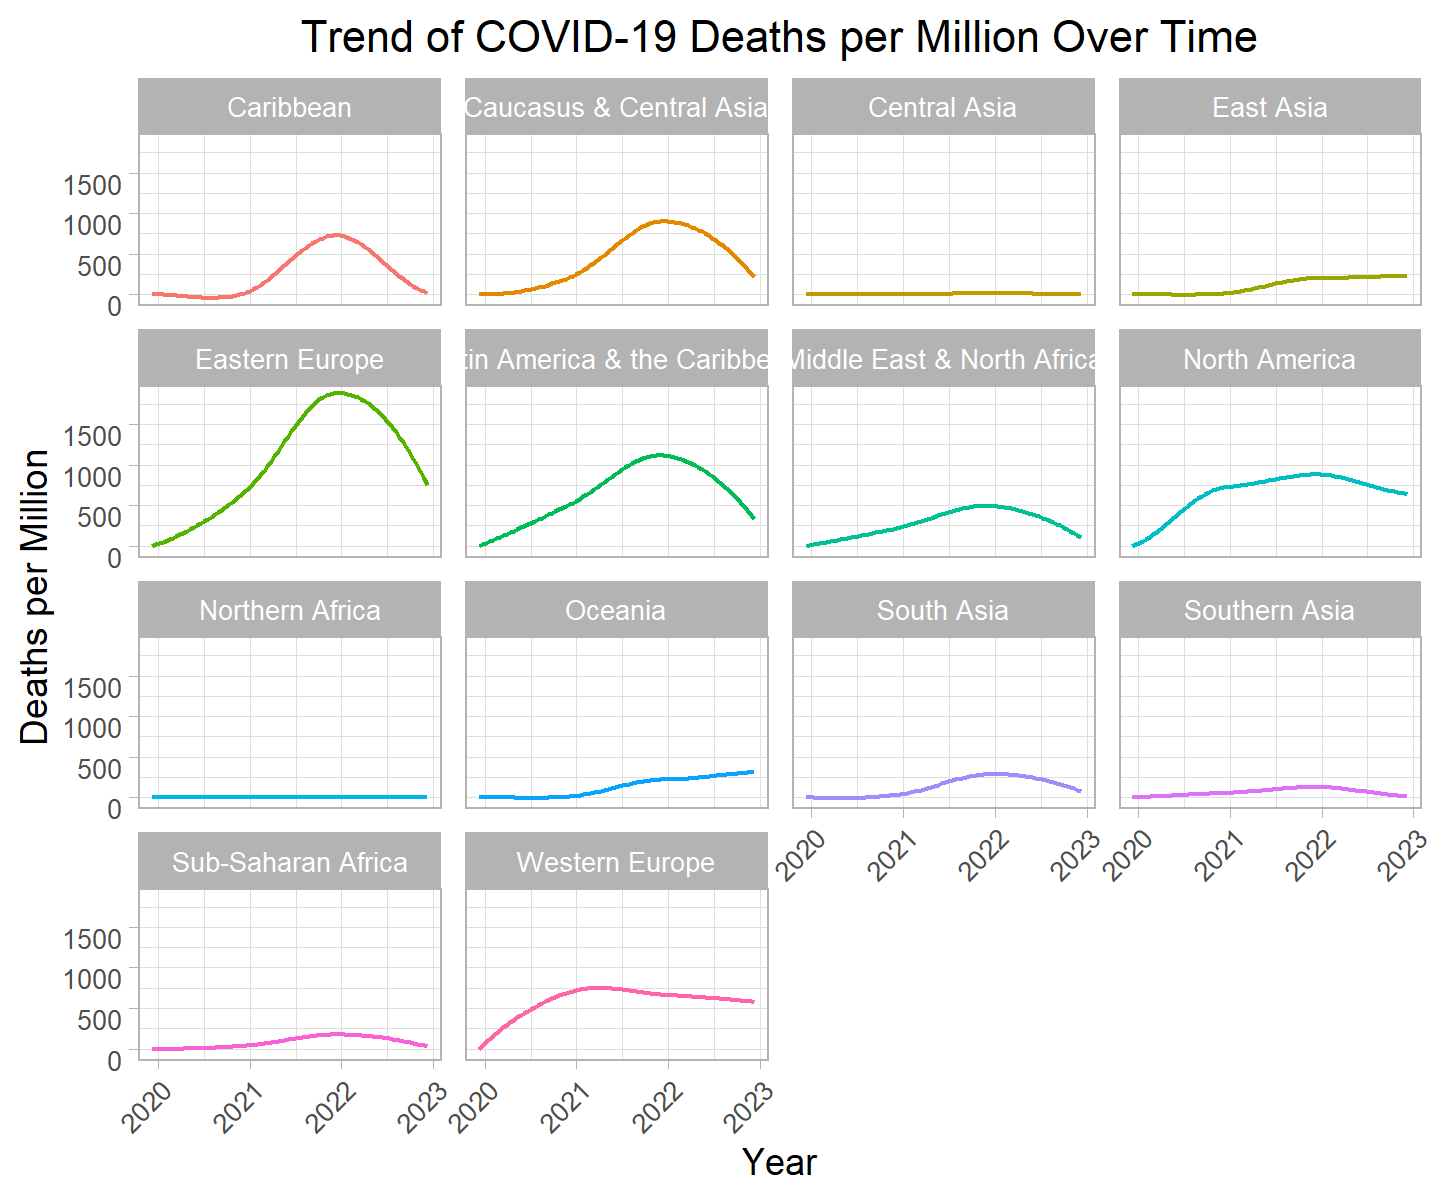
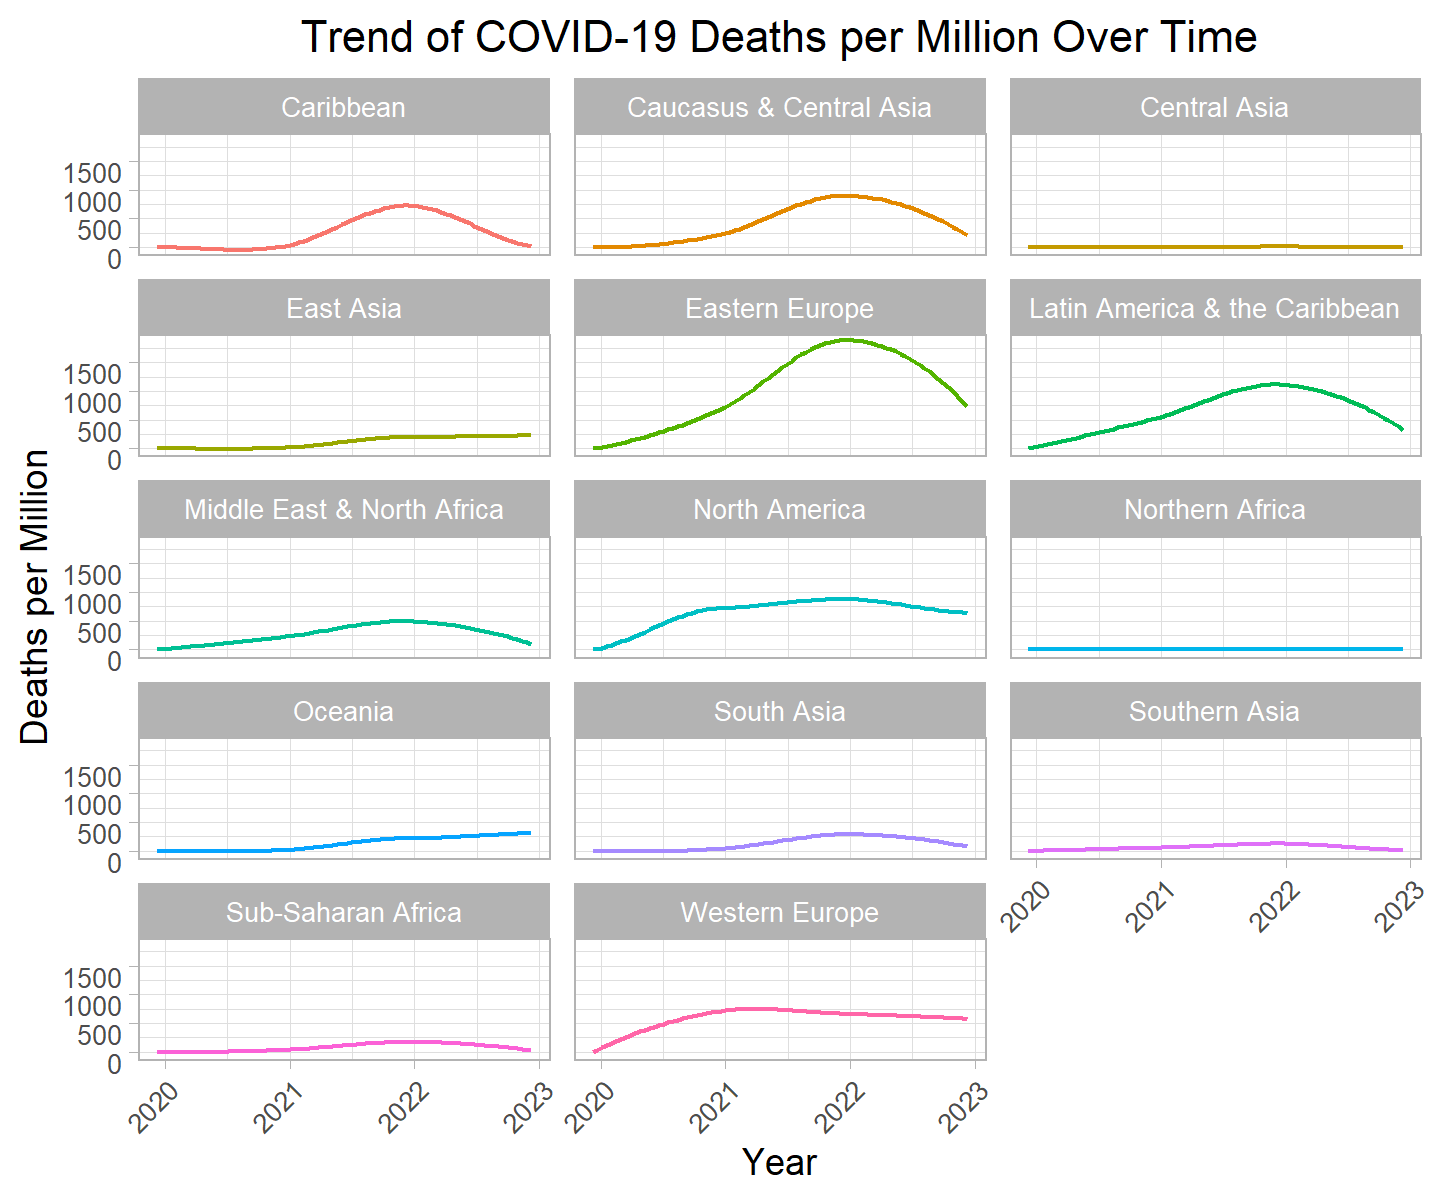
f

diff --git a/report/eda.html b/report/eda.html
@@ -536,7 +536,7 @@ pre > code.sourceCode > span > a:first-child::before { text-decoration: underlin
 </div>
 </div>
 <p>Meaning of the stars: *** : p_value &lt; 0.001; ** : p_value &lt; 0.01; *: p_value &lt;0.05; no star if p_value is higher.</p>
-<p>The different variables used to materialize the impact of climate disasters do not seem to have important influence on the overall score, but we will further explore for the different SDGs, since we believe that such disasters have a specific influence on some SDGs.</p>
+<p>The different variables used to materialize the impact of climate disasters do not seem to have important influence on the overall score. Indeed, the overallscore and total_affected have a correlation coefficient that suggests a very weak negative linear relationship between this variables and which is not statistically significant (p ≥ 0.05), and the overallscore and total_deaths have a correlation that also indicates a weak negative linear relationship that is statistically significant at p &lt; 0.05. But we will further explore for the different SDGs, since we believe that such disasters have a specific influence on some SDGs.</p>
 <div class="cell" data-layout-align="center" data-hash="eda_cache/html/unnamed-chunk-13_1b2d439539af9a38afe67a90f226f445">
 <div class="sourceCode cell-code" id="cb12"><pre class="sourceCode r code-with-copy"><code class="sourceCode r"><span id="cb12-1"><a href="#cb12-1" aria-hidden="true" tabindex="-1"></a>lower.panel <span class="ot">&lt;-</span> <span class="cf">function</span>(x, y, ...){</span>
 <span id="cb12-2"><a href="#cb12-2" aria-hidden="true" tabindex="-1"></a>  <span class="fu">points</span>(x, y, <span class="at">pch =</span> <span class="dv">20</span>, <span class="at">col =</span> <span class="st">"darkgreen"</span>, <span class="at">cex =</span> <span class="fl">0.2</span>)</span>
@@ -573,7 +573,8 @@ pre > code.sourceCode > span > a:first-child::before { text-decoration: underlin
 </div>
 </div>
 <p>Meaning of the stars: *** : p_value &lt; 0.001; ** : p_value &lt; 0.01; *: p_value &lt;0.05; no star if p_value is higher.</p>
-<p>The different variables used to materialize the impact of COVID19 do not seem to have important influence on the overall score, but we will further explore for the different SDGs, since we believe that COVID19 had a specific influence on some SDGs, for instance “good health and well-being” or “decent work and economic growth”.</p>
+<p>The different variables used to materialize the impact of COVID19 do not seem to have important influence on the overall score, we can see that Overallscore and cases_per_million/deaths_per_million/stringency have a correlation coefficient indicating a weak positive linear relationship that is highly statistically significant at p &lt; 0.001. But we will further explore for the different SDGs, since we believe that COVID19 had a specific influence on some SDGs, for instance “good health and well-being” or “decent work and economic growth”.</p>
+<p>Concerning the correlation effect between the COVID19 variables, we could have no surprises, Cases_per_million and deaths_per_million have a moderate to strong positive correlation suggesting a stronger relationship where an increase in the number of COVID-19 cases per million is associated with a substantial increase in the number of deaths per million. This indicates a significant correlation between case prevalence and mortality rate. Cases_per_million and stringency have a moderate positive correlation indicates that higher levels of cases per million are associated with slightly higher severity of health measures. This could mean that in regions where cases are more numerous, stricter sanitary measures can be put in place to control the spread of the virus. Finally, Deaths_per_million and stringency have a strong positive correlation indicating a robust relationship where higher mortality rates are associated with higher severity of sanitary measures. This suggest that in areas where deaths are higher, stricter sanitary measures are applied in an attempt to reduce the spread of the virus and mortality.</p>
 <div class="cell" data-layout-align="center" data-hash="eda_cache/html/unnamed-chunk-14_73173f2ace81ead4e12478e68ecbc066">
 <div class="sourceCode cell-code" id="cb13"><pre class="sourceCode r code-with-copy"><code class="sourceCode r"><span id="cb13-1"><a href="#cb13-1" aria-hidden="true" tabindex="-1"></a>lower.panel <span class="ot">&lt;-</span> <span class="cf">function</span>(x, y, ...){</span>
 <span id="cb13-2"><a href="#cb13-2" aria-hidden="true" tabindex="-1"></a>  <span class="fu">points</span>(x, y, <span class="at">pch =</span> <span class="dv">20</span>, <span class="at">col =</span> <span class="st">"darkgreen"</span>, <span class="at">cex =</span> <span class="fl">0.5</span>)</span>
@@ -610,7 +611,7 @@ pre > code.sourceCode > span > a:first-child::before { text-decoration: underlin
 </div>
 </div>
 <p>Meaning of the stars: *** : p_value &lt; 0.001; ** : p_value &lt; 0.01; *: p_value &lt;0.05; no star if p_value is higher.</p>
-<p>The different variables used to materialize the impact of conflicts do not seem to have important influence on the overall score, but we will further explore for the different SDGs, since we believe that conflicts have a specific influence on some SDGs.</p>
+<p>Negative values (ranging from -0.17 to -0.28) with three stars (***) indicate a strong and statistically significant negative correlation between the overall index (Overallscore) and the various conflict-related variables (Ongoing, sum_deaths, pop_affected, area_affected, maxintensity). A strong negative correlation means that an increase in the Overallscore is associated with a decrease in the values of the other variables. But we have to take into account that correlation does not necessarily imply direct causation. Further analysis may be required to understand in depth the nature of the relationships between these variables.</p>
 <p>To explore our data on events such as disasters, covid-19 and conflicts we have to first see which countries are the most touched by these. To do so, we made time-series analysis on this three events each time depending on different variables.</p>
 <div class="cell" data-layout-align="center" data-hash="eda_cache/html/unnamed-chunk-15_edf8e38e20014d79e95924703219522d">
 <div class="sourceCode cell-code" id="cb14"><pre class="sourceCode r code-with-copy"><code class="sourceCode r"><span id="cb14-1"><a href="#cb14-1" aria-hidden="true" tabindex="-1"></a><span class="co"># Converted 'year' column to date format</span></span>
@@ -645,12 +646,12 @@ pre > code.sourceCode > span > a:first-child::before { text-decoration: underlin
 </div>
 </div>
 <p>These is our time-analysis concerning the COVID-19 deaths per million per region between end 2018 and 2022</p>
-<div class="cell" data-layout-align="center" data-hash="eda_cache/html/unnamed-chunk-17_01117268642008bee6b950ee3f803f41">
+<div class="cell" data-layout-align="center" data-hash="eda_cache/html/unnamed-chunk-17_8d6d11c1195f325e113b0d524963efcd">
 <div class="sourceCode cell-code" id="cb16"><pre class="sourceCode r code-with-copy"><code class="sourceCode r"><span id="cb16-1"><a href="#cb16-1" aria-hidden="true" tabindex="-1"></a></span>
 <span id="cb16-2"><a href="#cb16-2" aria-hidden="true" tabindex="-1"></a><span class="fu">ggplot</span>(<span class="at">data =</span> covid_filtered, <span class="fu">aes</span>(<span class="at">x =</span> year, <span class="at">y =</span> deaths_per_million, <span class="at">group =</span> region, <span class="at">color =</span> region)) <span class="sc">+</span></span>
 <span id="cb16-3"><a href="#cb16-3" aria-hidden="true" tabindex="-1"></a>  <span class="fu">geom_smooth</span>(<span class="at">method =</span> <span class="st">"loess"</span>, <span class="at">se =</span> <span class="cn">FALSE</span>, <span class="at">span =</span> <span class="fl">0.8</span>, <span class="at">size =</span> <span class="fl">0.6</span>) <span class="sc">+</span> </span>
 <span id="cb16-4"><a href="#cb16-4" aria-hidden="true" tabindex="-1"></a>  <span class="fu">labs</span>(<span class="at">x =</span> <span class="st">"Year"</span>, <span class="at">y =</span> <span class="st">"Deaths per Million"</span>) <span class="sc">+</span></span>
-<span id="cb16-5"><a href="#cb16-5" aria-hidden="true" tabindex="-1"></a>  <span class="fu">facet_wrap</span>(<span class="sc">~</span> region, <span class="at">nrow =</span> <span class="dv">4</span>, <span class="at">strip.position =</span> <span class="st">"top"</span>) <span class="sc">+</span></span>
+<span id="cb16-5"><a href="#cb16-5" aria-hidden="true" tabindex="-1"></a>  <span class="fu">facet_wrap</span>(<span class="sc">~</span> region, <span class="at">nrow =</span> <span class="dv">5</span>, <span class="at">strip.position =</span> <span class="st">"top"</span>) <span class="sc">+</span></span>
 <span id="cb16-6"><a href="#cb16-6" aria-hidden="true" tabindex="-1"></a>  <span class="fu">theme</span>(<span class="at">axis.text.x =</span> <span class="fu">element_text</span>(<span class="at">angle =</span> <span class="dv">45</span>, <span class="at">size =</span> <span class="dv">8</span>, <span class="at">hjust =</span> <span class="dv">1</span>),</span>
 <span id="cb16-7"><a href="#cb16-7" aria-hidden="true" tabindex="-1"></a>        <span class="at">axis.text.y =</span> <span class="fu">element_text</span>(<span class="at">vjust =</span> <span class="dv">1</span>, <span class="at">size =</span> <span class="dv">8</span>, <span class="at">hjust =</span> <span class="dv">1</span>),</span>
 <span id="cb16-8"><a href="#cb16-8" aria-hidden="true" tabindex="-1"></a>        <span class="at">strip.text =</span> <span class="fu">element_text</span>(<span class="at">size =</span> <span class="dv">8</span>),</span>
@@ -668,11 +669,11 @@ pre > code.sourceCode > span > a:first-child::before { text-decoration: underlin
 </div>
 </div>
 <p>These is our time-analysis concerning the COVID-19 stringency per region between end 2018 and 2022</p>
-<div class="cell" data-layout-align="center" data-hash="eda_cache/html/unnamed-chunk-18_0fc820a138367e36aade4dd243999229">
+<div class="cell" data-layout-align="center" data-hash="eda_cache/html/unnamed-chunk-18_55fdbbfa8025bfe50a3d3795263ee1c8">
 <div class="sourceCode cell-code" id="cb17"><pre class="sourceCode r code-with-copy"><code class="sourceCode r"><span id="cb17-1"><a href="#cb17-1" aria-hidden="true" tabindex="-1"></a><span class="fu">ggplot</span>(<span class="at">data =</span> covid_filtered, <span class="fu">aes</span>(<span class="at">x =</span> year, <span class="at">y =</span> stringency, <span class="at">group =</span> region, <span class="at">color =</span> region)) <span class="sc">+</span></span>
 <span id="cb17-2"><a href="#cb17-2" aria-hidden="true" tabindex="-1"></a>  <span class="fu">geom_smooth</span>(<span class="at">method =</span> <span class="st">"loess"</span>,  <span class="at">se =</span> <span class="cn">FALSE</span>, <span class="at">span =</span> <span class="fl">0.7</span>, <span class="at">size =</span> <span class="fl">0.6</span>) <span class="sc">+</span> </span>
 <span id="cb17-3"><a href="#cb17-3" aria-hidden="true" tabindex="-1"></a>  <span class="fu">labs</span>(<span class="at">x =</span> <span class="st">"Year"</span>, <span class="at">y =</span> <span class="st">"Stringency"</span>) <span class="sc">+</span></span>
-<span id="cb17-4"><a href="#cb17-4" aria-hidden="true" tabindex="-1"></a>  <span class="fu">facet_wrap</span>(<span class="sc">~</span> region, <span class="at">nrow =</span> <span class="dv">4</span>) <span class="sc">+</span></span>
+<span id="cb17-4"><a href="#cb17-4" aria-hidden="true" tabindex="-1"></a>  <span class="fu">facet_wrap</span>(<span class="sc">~</span> region, <span class="at">nrow =</span> <span class="dv">5</span>) <span class="sc">+</span></span>
 <span id="cb17-5"><a href="#cb17-5" aria-hidden="true" tabindex="-1"></a>  <span class="fu">theme</span>(<span class="at">axis.text.x =</span> <span class="fu">element_text</span>(<span class="at">angle =</span> <span class="dv">45</span>, <span class="at">size =</span> <span class="dv">8</span>, <span class="at">hjust =</span> <span class="dv">1</span>),</span>
 <span id="cb17-6"><a href="#cb17-6" aria-hidden="true" tabindex="-1"></a>        <span class="at">axis.text.y =</span> <span class="fu">element_text</span>(<span class="at">vjust =</span> <span class="dv">1</span>, <span class="at">size =</span> <span class="dv">8</span>, <span class="at">hjust =</span> <span class="dv">1</span>),</span>
 <span id="cb17-7"><a href="#cb17-7" aria-hidden="true" tabindex="-1"></a>        <span class="at">strip.text =</span> <span class="fu">element_text</span>(<span class="at">size =</span> <span class="dv">8</span>),</span>
@@ -690,12 +691,12 @@ pre > code.sourceCode > span > a:first-child::before { text-decoration: underlin
 </div>
 </div>
 <p>These is our time-analysis concerning climatic disasters with total affected per region</p>
-<div class="cell" data-layout-align="center" data-hash="eda_cache/html/unnamed-chunk-19_0682c089e67664f714b8231898ebb553">
+<div class="cell" data-layout-align="center" data-hash="eda_cache/html/unnamed-chunk-19_20e47aa337aa8d84ff4ebfd6ebd8a589">
 <div class="sourceCode cell-code" id="cb18"><pre class="sourceCode r code-with-copy"><code class="sourceCode r"><span id="cb18-1"><a href="#cb18-1" aria-hidden="true" tabindex="-1"></a>Q3<span class="fl">.1</span>[<span class="fu">is.na</span>(Q3<span class="fl">.1</span>)] <span class="ot">&lt;-</span> <span class="dv">0</span></span>
 <span id="cb18-2"><a href="#cb18-2" aria-hidden="true" tabindex="-1"></a><span class="fu">ggplot</span>(<span class="at">data =</span> Q3<span class="fl">.1</span>, <span class="fu">aes</span>(<span class="at">x =</span> year, <span class="at">y =</span> total_affected, <span class="at">group =</span> region, <span class="at">color =</span> region)) <span class="sc">+</span></span>
 <span id="cb18-3"><a href="#cb18-3" aria-hidden="true" tabindex="-1"></a>  <span class="fu">geom_smooth</span>(<span class="at">method =</span> <span class="st">"loess"</span>,  <span class="at">se =</span> <span class="cn">FALSE</span>, <span class="at">span =</span> <span class="fl">0.7</span>, <span class="at">size =</span> <span class="fl">0.5</span>) <span class="sc">+</span> </span>
 <span id="cb18-4"><a href="#cb18-4" aria-hidden="true" tabindex="-1"></a>  <span class="fu">labs</span>(<span class="at">x =</span> <span class="st">"Year"</span>, <span class="at">y =</span> <span class="st">"Total Affected"</span>) <span class="sc">+</span></span>
-<span id="cb18-5"><a href="#cb18-5" aria-hidden="true" tabindex="-1"></a>  <span class="fu">facet_wrap</span>(<span class="sc">~</span> region, <span class="at">nrow =</span> <span class="dv">4</span>) <span class="sc">+</span></span>
+<span id="cb18-5"><a href="#cb18-5" aria-hidden="true" tabindex="-1"></a>  <span class="fu">facet_wrap</span>(<span class="sc">~</span> region, <span class="at">nrow =</span> <span class="dv">5</span>) <span class="sc">+</span></span>
 <span id="cb18-6"><a href="#cb18-6" aria-hidden="true" tabindex="-1"></a>  <span class="fu">scale_y_continuous</span>(<span class="at">labels =</span> <span class="cf">function</span>(x) <span class="fu">format</span>(x, <span class="at">scientific =</span> <span class="cn">FALSE</span>)) <span class="sc">+</span></span>
 <span id="cb18-7"><a href="#cb18-7" aria-hidden="true" tabindex="-1"></a>  <span class="fu">theme</span>(<span class="at">axis.text.x =</span> <span class="fu">element_text</span>(<span class="at">angle =</span> <span class="dv">45</span>, <span class="at">size =</span> <span class="dv">8</span>, <span class="at">hjust =</span> <span class="dv">1</span>),</span>
 <span id="cb18-8"><a href="#cb18-8" aria-hidden="true" tabindex="-1"></a>        <span class="at">axis.text.y =</span> <span class="fu">element_text</span>(<span class="at">vjust =</span> <span class="dv">1</span>, <span class="at">size =</span> <span class="dv">8</span>, <span class="at">hjust =</span> <span class="dv">1</span>),</span>
@@ -714,13 +715,13 @@ pre > code.sourceCode > span > a:first-child::before { text-decoration: underlin
 </div>
 </div>
 <p>These is our time-analysis concerning conflicts deaths per region between 2000 and 2016</p>
-<div class="cell" data-layout-align="center" data-hash="eda_cache/html/unnamed-chunk-20_19ffc9dff31ae12f736e0d2be08c3876">
+<div class="cell" data-layout-align="center" data-hash="eda_cache/html/unnamed-chunk-20_ee1eb1eb2953d5d93a4ccacbfd937a9b">
 <div class="sourceCode cell-code" id="cb19"><pre class="sourceCode r code-with-copy"><code class="sourceCode r"><span id="cb19-1"><a href="#cb19-1" aria-hidden="true" tabindex="-1"></a>conflicts_filtered <span class="ot">&lt;-</span> Q3<span class="fl">.3</span>[Q3<span class="fl">.3</span><span class="sc">$</span>year <span class="sc">&gt;=</span> <span class="fu">as.Date</span>(<span class="st">"2000-01-01"</span>) <span class="sc">&amp;</span> Q3<span class="fl">.3</span><span class="sc">$</span>year <span class="sc">&lt;=</span> <span class="fu">as.Date</span>(<span class="st">"2016-12-31"</span>), ]</span>
 <span id="cb19-2"><a href="#cb19-2" aria-hidden="true" tabindex="-1"></a></span>
 <span id="cb19-3"><a href="#cb19-3" aria-hidden="true" tabindex="-1"></a><span class="fu">ggplot</span>(<span class="at">data =</span> conflicts_filtered, <span class="fu">aes</span>(<span class="at">x =</span> year, <span class="at">y =</span> sum_deaths, <span class="at">group =</span> region, <span class="at">color =</span> region)) <span class="sc">+</span></span>
 <span id="cb19-4"><a href="#cb19-4" aria-hidden="true" tabindex="-1"></a>  <span class="fu">geom_smooth</span>(<span class="at">method =</span> <span class="st">"loess"</span>, <span class="at">se =</span> <span class="cn">FALSE</span>, <span class="at">span =</span> <span class="fl">0.3</span>, <span class="at">size =</span> <span class="fl">0.6</span>) <span class="sc">+</span></span>
 <span id="cb19-5"><a href="#cb19-5" aria-hidden="true" tabindex="-1"></a>  <span class="fu">labs</span>(<span class="at">x =</span> <span class="st">"Year"</span>, <span class="at">y =</span> <span class="st">"Sum 0f Deaths"</span>) <span class="sc">+</span></span>
-<span id="cb19-6"><a href="#cb19-6" aria-hidden="true" tabindex="-1"></a>  <span class="fu">facet_wrap</span>(<span class="sc">~</span> region, <span class="at">nrow =</span> <span class="dv">4</span>) <span class="sc">+</span></span>
+<span id="cb19-6"><a href="#cb19-6" aria-hidden="true" tabindex="-1"></a>  <span class="fu">facet_wrap</span>(<span class="sc">~</span> region, <span class="at">nrow =</span> <span class="dv">5</span>) <span class="sc">+</span></span>
 <span id="cb19-7"><a href="#cb19-7" aria-hidden="true" tabindex="-1"></a>  <span class="fu">theme</span>(<span class="at">axis.text.x =</span> <span class="fu">element_text</span>(<span class="at">angle =</span> <span class="dv">45</span>, <span class="at">size =</span> <span class="dv">8</span>, <span class="at">hjust =</span> <span class="dv">1</span>),</span>
 <span id="cb19-8"><a href="#cb19-8" aria-hidden="true" tabindex="-1"></a>        <span class="at">axis.text.y =</span> <span class="fu">element_text</span>(<span class="at">vjust =</span> <span class="dv">1</span>, <span class="at">size =</span> <span class="dv">8</span>, <span class="at">hjust =</span> <span class="dv">1</span>),</span>
 <span id="cb19-9"><a href="#cb19-9" aria-hidden="true" tabindex="-1"></a>        <span class="at">strip.text =</span> <span class="fu">element_text</span>(<span class="at">size =</span> <span class="dv">8</span>),</span>
